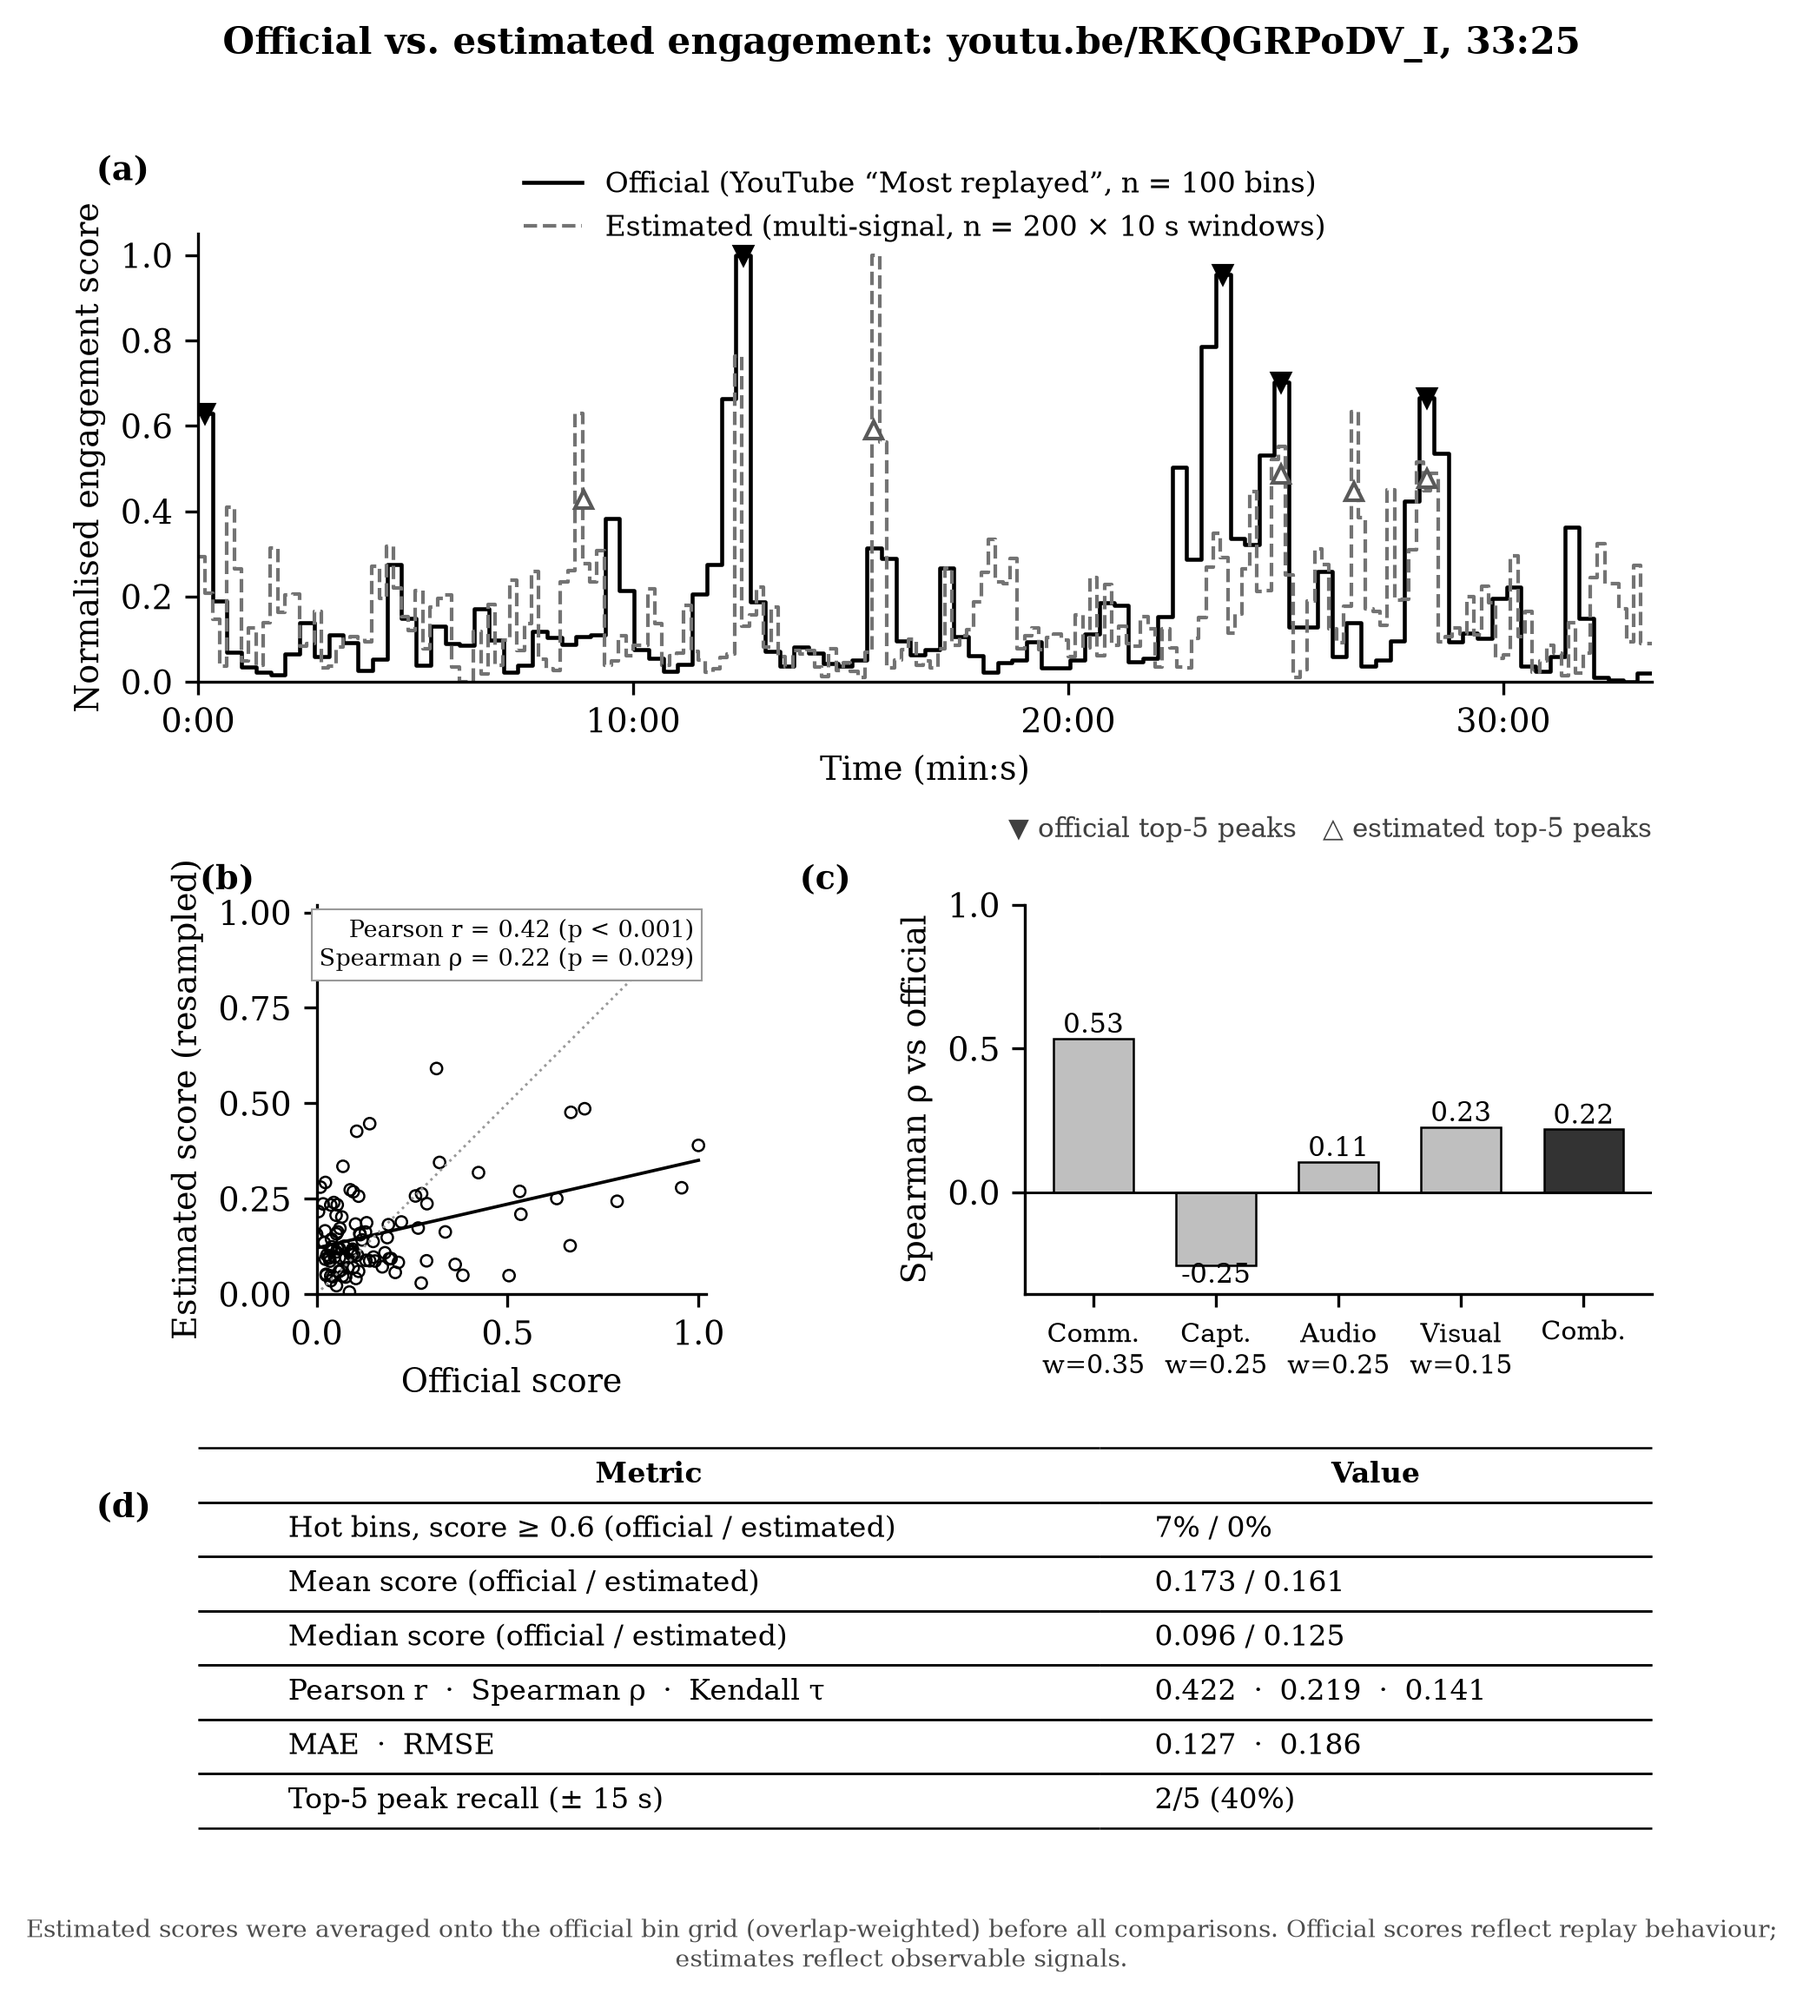
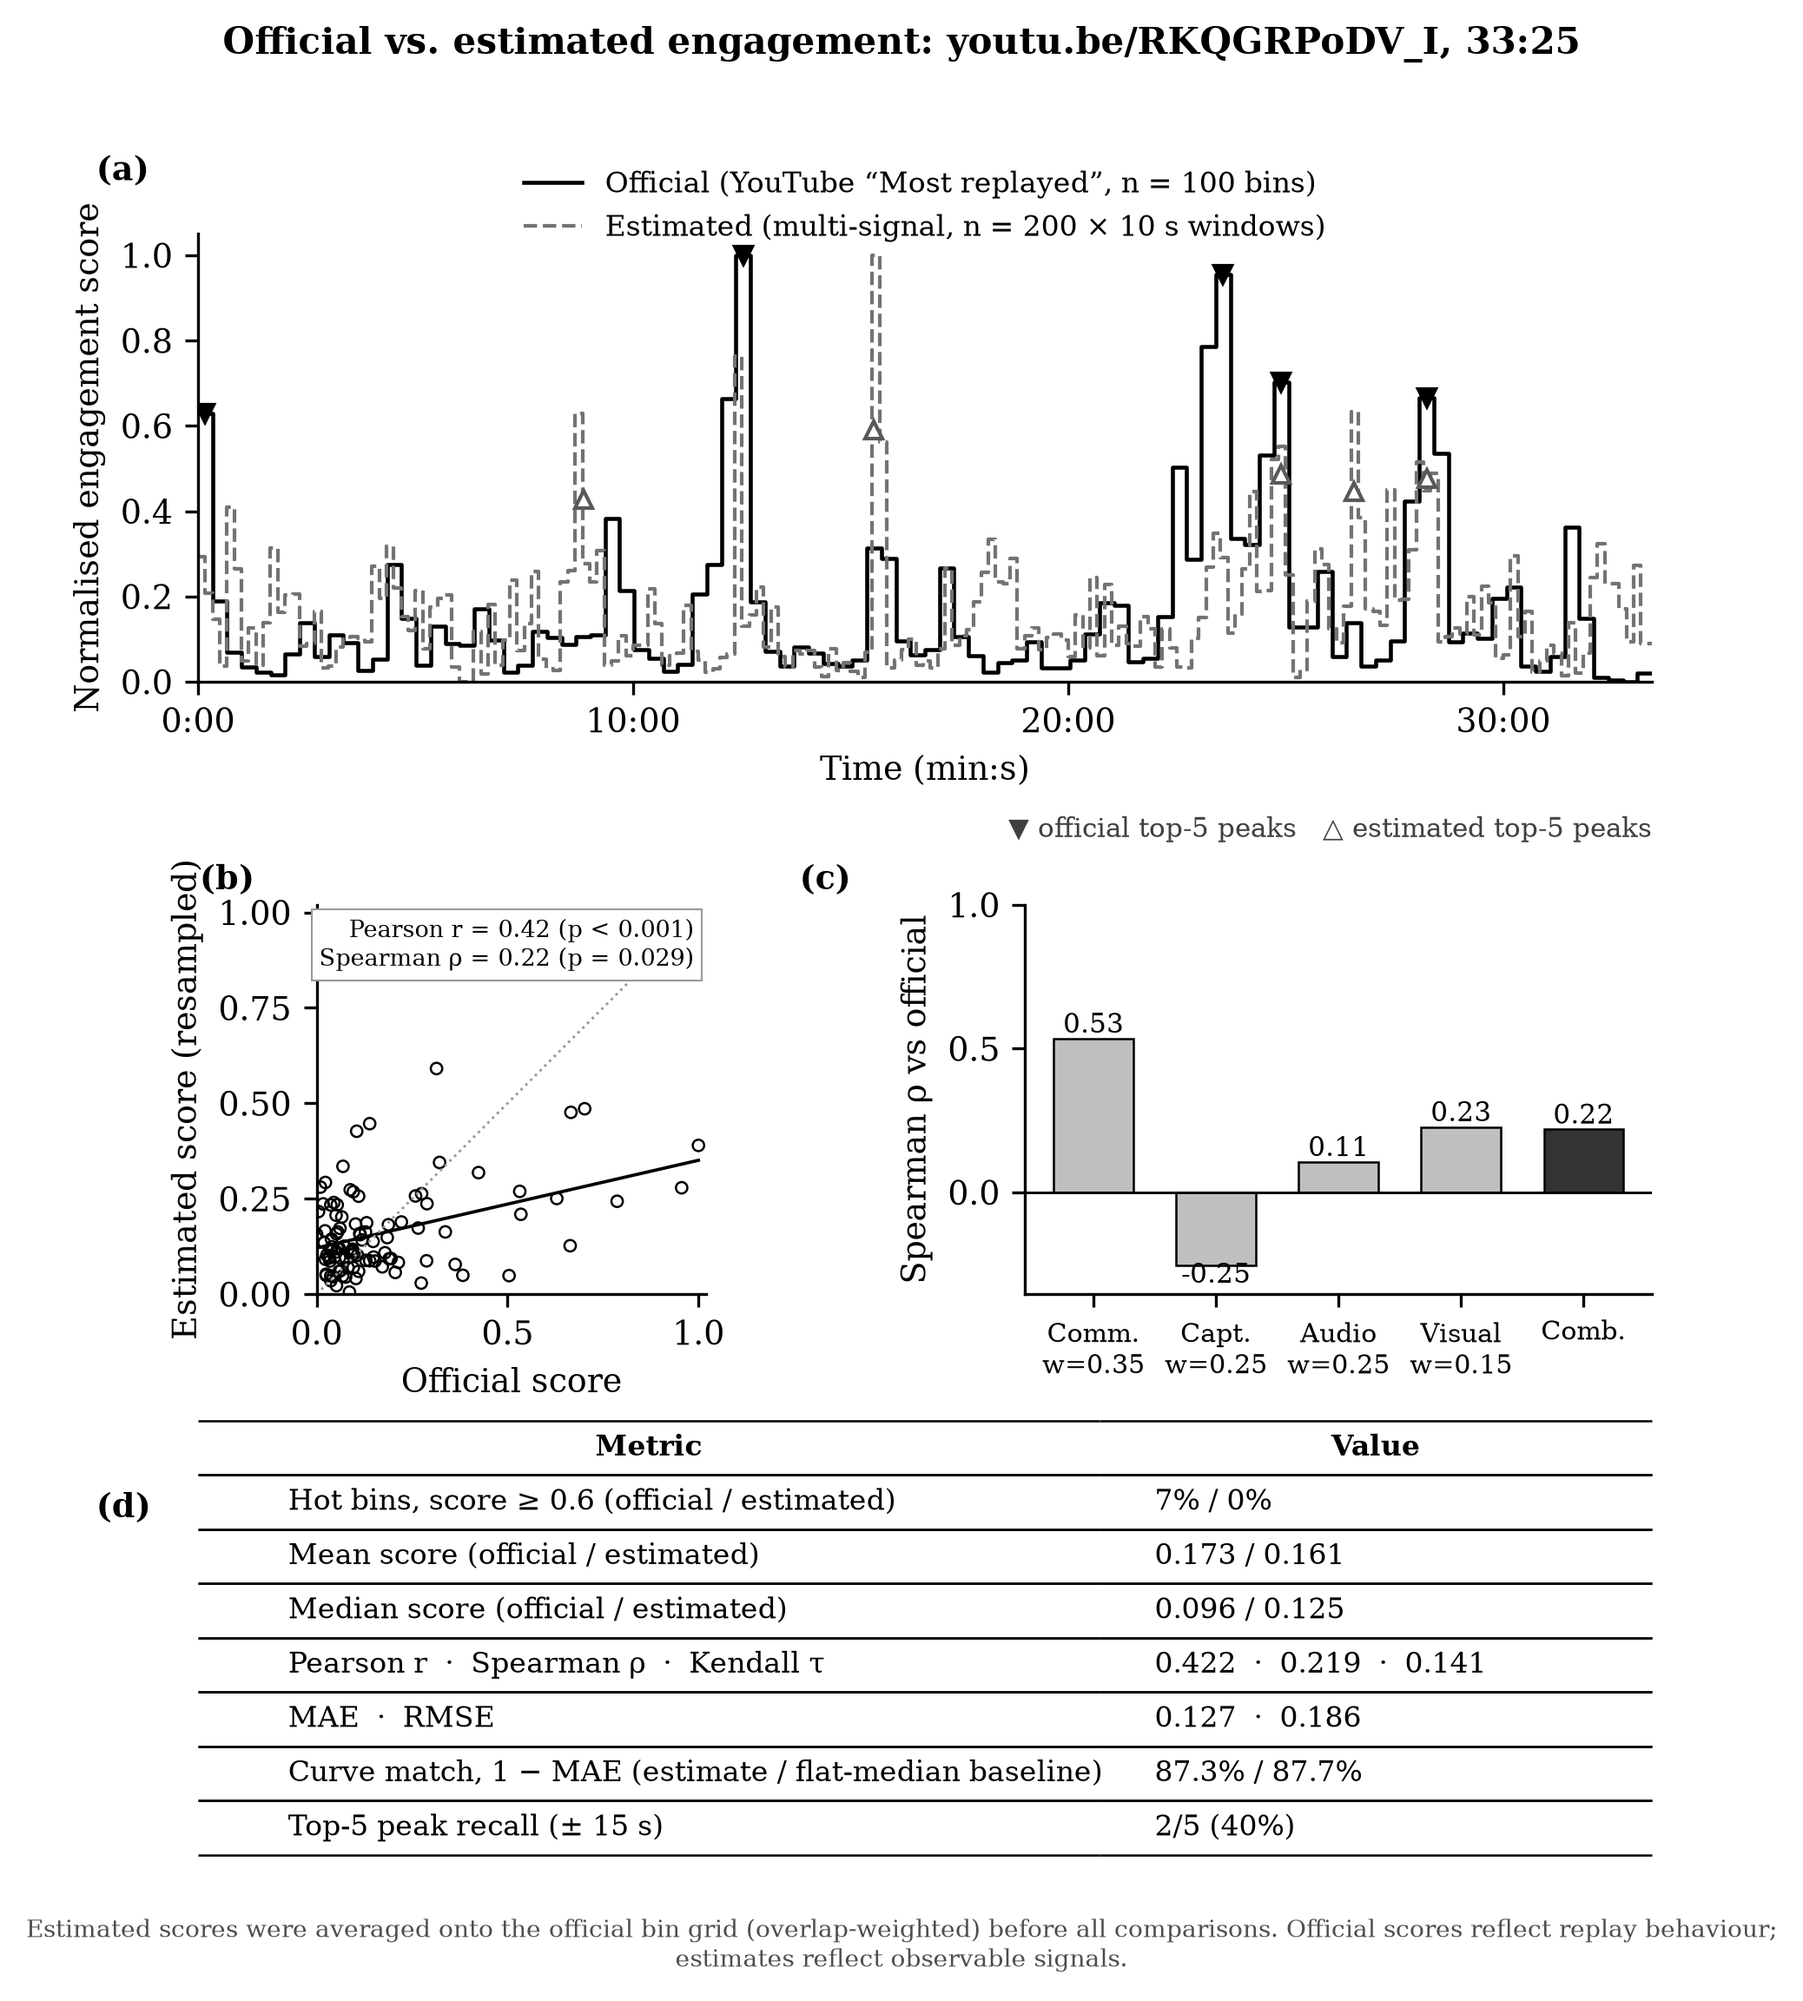
compare_fig: curve match (1-MAE) with flat-median baseline

Changed region(s): [[0.1233, 0.7188, 0.894, 0.9375]]

diff --git a/benchmarks/compare_fig.py b/benchmarks/compare_fig.py
@@ -145,6 +145,7 @@ rows = [
     ["Median score (official / estimated)", f"{np.median(y_off):.3f} / {np.median(y_est):.3f}"],
     ["Pearson r  ·  Spearman ρ  ·  Kendall τ", f"{r_p:.3f}  ·  {r_s:.3f}  ·  {tau:.3f}"],
     ["MAE  ·  RMSE", f"{mae:.3f}  ·  {rmse:.3f}"],
+    ["Curve match, 1 − MAE (estimate / flat-median baseline)", f"{(1 - mae) * 100:.1f}% / {(1 - np.mean(np.abs(y_off - np.median(y_off)))) * 100:.1f}%"],
     [f"Top-{K} peak recall (± {int(TOL)} s)", f"{hits}/{K} ({100 * hits / K:.0f}%)"],
 ]
 t = ax.table(cellText=rows, colLabels=["Metric", "Value"], loc="center", cellLoc="left", colWidths=[0.62, 0.38], edges="horizontal")

diff --git a/benchmarks/README.md b/benchmarks/README.md
@@ -16,7 +16,7 @@ pip install numpy scipy matplotlib
 python benchmarks/compare_fig.py official.json estimated.json figure.png
 ```
 
-Before comparing, estimated windows are resampled onto the official bin grid with overlap-weighted means. The script reports Pearson, Spearman and Kendall correlations, MAE/RMSE, mean, median and hot-bin share (score ≥ 0.6), top-5 peak recall within ±15 s, and per-signal Spearman when the export includes signal scores. Without signal scores it shows score ECDFs with a KS test instead.
+Before comparing, estimated windows are resampled onto the official bin grid with overlap-weighted means. The script reports Pearson, Spearman and Kendall correlations, MAE/RMSE, curve match (1 − MAE) beside a flat-median baseline, mean, median and hot-bin share (score ≥ 0.6), top-5 peak recall within ±15 s, and per-signal Spearman when the export includes signal scores. Without signal scores it shows score ECDFs with a KS test instead.
 
 Optional environment variables: `FIG_LABEL` replaces the title label, and `FIG_NOTE` adds text to the footnote.
 
